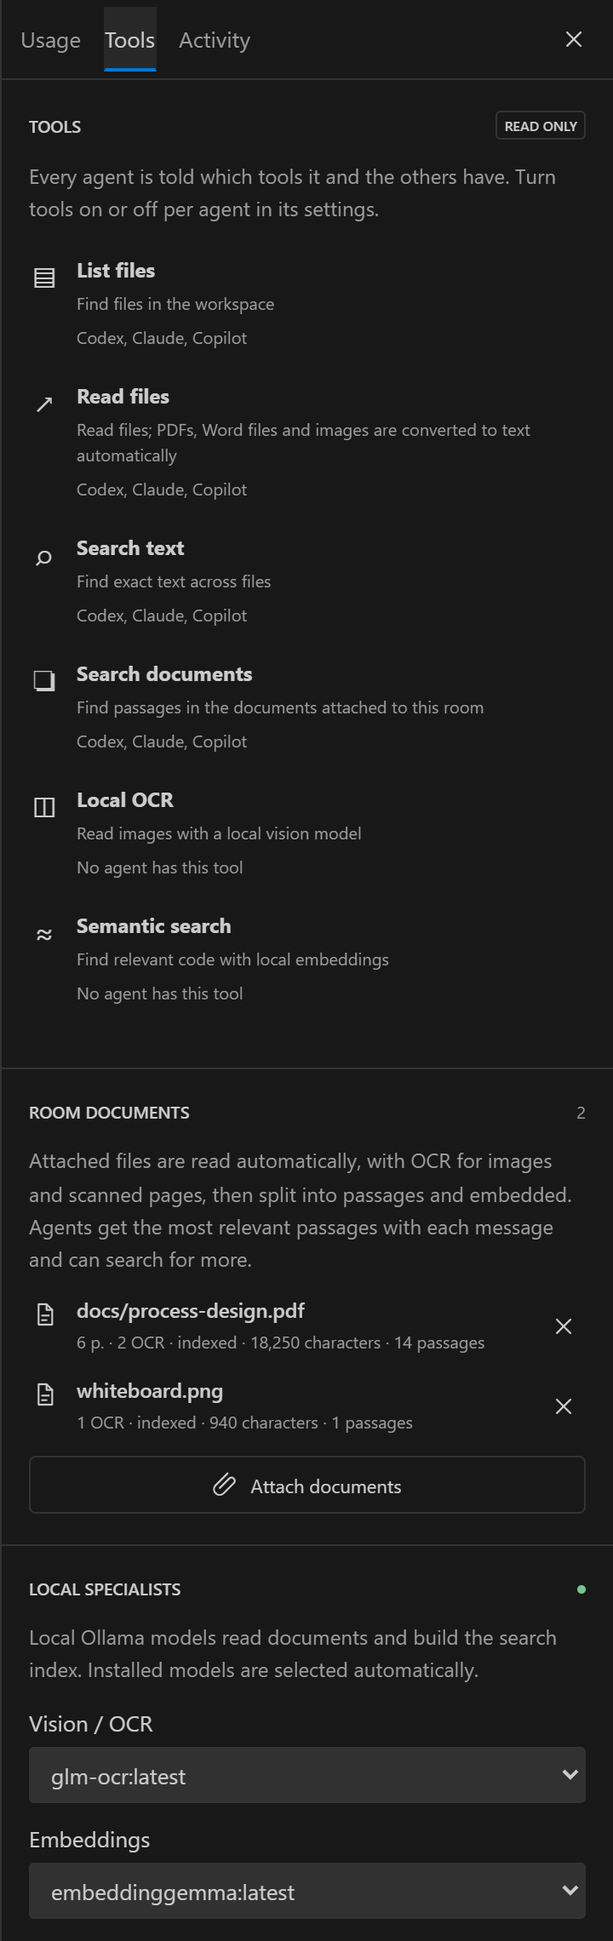
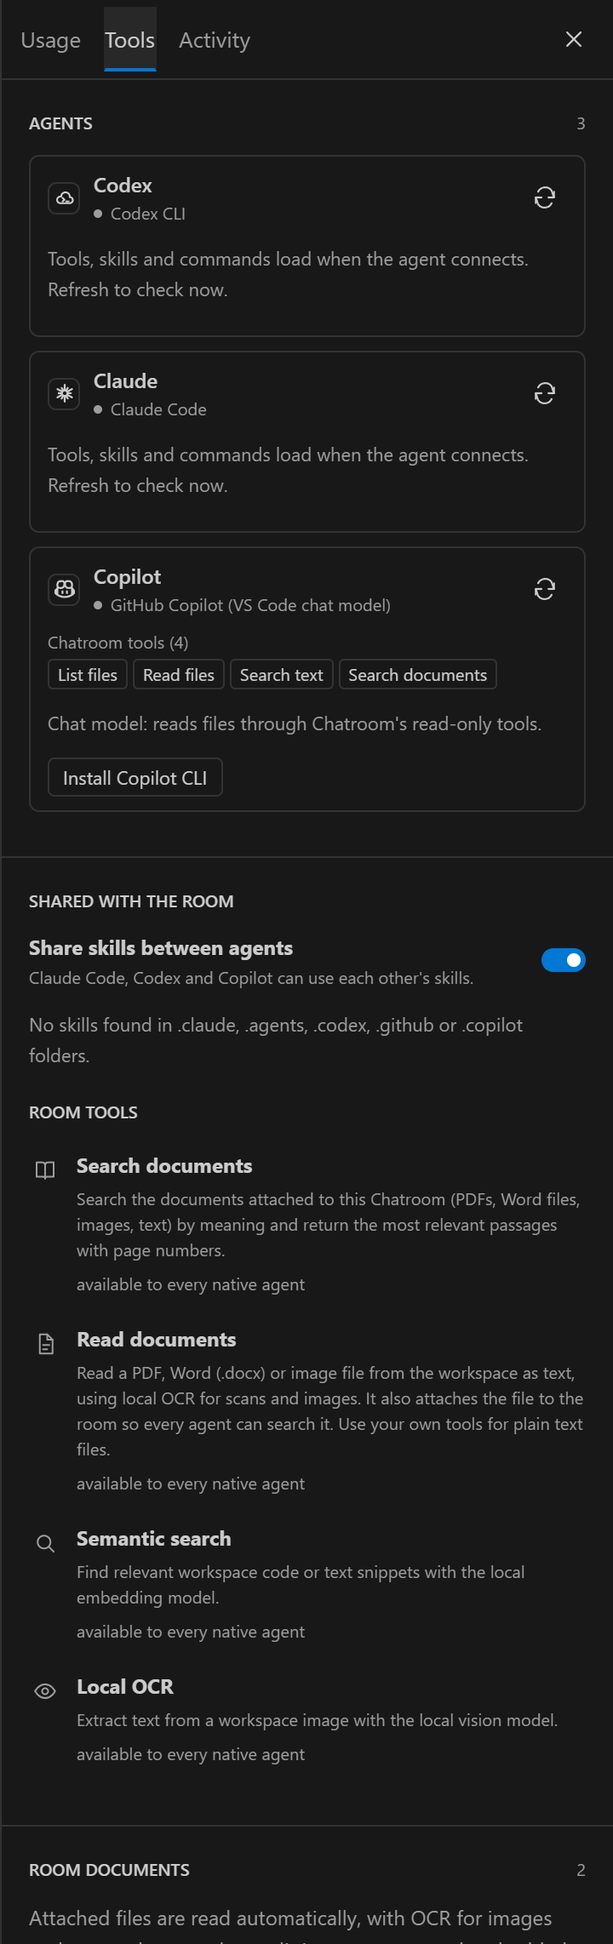
Update README, changelog and screenshots for 0.4.0

diff --git a/README.md b/README.md
@@ -1,18 +1,21 @@
 # Chatroom
 
-A VS Code extension where Codex, Claude Code, GitHub Copilot and local Ollama models work on one conversation with you. A lead agent splits your request into steps. The other agents work on those steps in parallel or build on each other's results, and the lead writes one final answer. Attach PDFs, Word files or images, and every agent can read and search them using local OCR and embeddings.
+A VS Code extension where the real Claude Code, Codex and GitHub Copilot CLIs work in one chat room with you, plus local Ollama models. Each agent is the CLI itself, with its own tools, skills, slash commands, MCP servers, sessions, effort levels and permission modes. The agents see each other's messages, hand work to each other with `@mentions`, and can work as a team under a lead. Attach PDFs, Word files or images, and every agent can read and search them using local OCR and embeddings.
 
 ![A lead agent's plan: two steps run in parallel, and a third builds on both](docs/images/lead-team.png)
 
 ## Features
 
-- **Lead + team.** The lead plans a small graph of steps. Independent steps run at the same time; a step that depends on others starts when they finish and receives their output. The lead then combines everything into one answer and resolves disagreements.
-- **Other ways to talk.** **Relay** (agents reply in turn and build on each other), **Parallel** (independent answers), and **1:1 chat** with a single agent.
-- **Agents know the room.** Each agent is told who else is present, which client and model they use, their roles, their tools, and which documents are attached.
-- **Documents.** PDFs (text layer, plus OCR for scanned pages), images, Word and text files are read automatically, split into passages, and embedded locally. The relevant passages go to every agent with each message.
-- **Your accounts, your machine.** Chatroom uses the clients you are already signed in to. It has no API-key form, no backend and no telemetry. OCR and embeddings run on your machine through Ollama.
-- **In control.** Live plan status, pause, resume, stop (per agent or for everyone), usage per agent, and an optional token limit per message.
-- **Native look.** It opens in the right Secondary Side Bar and uses your VS Code theme.
+- **The CLIs themselves.** Claude Code runs as `claude` in stream-json mode, Codex as one `codex app-server` per window, and Copilot as `copilot --acp` (when the Copilot CLI is installed). Each keeps its own tools, skills, `CLAUDE.md`/`AGENTS.md`, hooks, MCP servers and native session, and resumes that session after a reload.
+- **One room, shared context.** Every message reaches every agent once. An agent's own replies are already in its session, so each turn sends only what is new. A new or lost session gets a bounded copy of the room history.
+- **Teamwork.** A line that starts with `@Name` hands the next turn to that agent. In **Team** mode a lead answers or brings in teammates (with mention lines or a step plan), independent steps run in parallel, and the lead writes the final answer. **Relay** and **Parallel** modes and `@Agent` messages are there too.
+- **Permissions and approvals.** Per agent: **Plan**, **Ask** (the default), **Auto-edit** or **Full access**, mapped to each CLI's own modes. In Ask, edits, commands and network access show up as approval cards in the room. Unanswered requests are denied after 5 minutes.
+- **Composer like Claude Code.** `@` to mention, `/` for room commands and each agent's own slash commands, chips for team mode, loops, permissions and effort, ✦ to think harder and ⚡ Ultra for one message, and a context ring per agent.
+- **Loops.** Repeat for N rounds, until everyone agrees, until the lead says done, or every few minutes. Iteration, time and token caps always apply.
+- **Open file and selection.** The file you have open and your selection go with your message in each CLI's native format. Turn it off per room with the eye button.
+- **Shared skills and room tools.** Skills from Claude Code, Codex and Copilot are shared with the other CLIs. Every native agent gets four room tools (document search, document reading with OCR, semantic search and OCR) through MCP or Codex dynamic tools.
+- **Documents.** PDFs (text layer, plus OCR for scanned pages), images, Word and text files are read automatically, split into passages and embedded locally. The relevant passages go to every agent with each message.
+- **Your accounts, your machine.** Chatroom uses the CLIs you are already signed in to. It has no API-key form, no backend and no telemetry.
 
 <table>
   <tr>
@@ -31,9 +34,9 @@ A VS Code extension where Codex, Claude Code, GitHub Copilot and local Ollama mo
 
 - VS Code 1.106 or newer.
 - At least one signed-in client:
-  - **Codex**: the Codex extension or CLI.
   - **Claude Code**: the Claude Code extension or CLI.
-  - **GitHub Copilot**: signed in to Copilot in VS Code.
+  - **Codex**: the Codex extension or CLI.
+  - **GitHub Copilot CLI** (recommended for Copilot): `npm i -g @github/copilot`, then `copilot login`. Without it, Copilot runs through VS Code's chat models as a chat-only agent.
   - **Ollama**: local models.
 - For documents (optional): [Ollama](https://ollama.com) with a vision/OCR model and an embedding model, for example `ollama pull glm-ocr` and `ollama pull embeddinggemma`.
 - To build: Node.js 20 or newer.
@@ -45,7 +48,7 @@ git clone https://github.com/GhoshSrinjoy/ChatRoom.git
 cd ChatRoom
 npm ci
 npm run package
-code --install-extension artifacts/chatroom-0.3.2.vsix
+code --install-extension artifacts/chatroom-0.4.0.vsix
 ```
 
 Then run **Developer: Reload Window** in VS Code. You can also install the file with **Extensions: Install from VSIX…** from the Command Palette.
@@ -53,97 +56,105 @@ Then run **Developer: Reload Window** in VS Code. You can also install the file 
 ## Getting started
 
 1. Open a local folder you trust and run **Chatroom: Open Room**. It opens in the right Secondary Side Bar.
-2. Click **Refresh connections**. Copilot may ask for consent to share its models with Chatroom.
-3. Each agent has a model dropdown populated from its client. Click an agent's name to change its role, tools, and Codex reasoning effort. Use **Add agent** for more agents, including several models from the same client.
-4. Pick how the agents collaborate in the composer (**Lead + team** is the default) and who leads. Then send your request to everyone, or pick **Only *name* · 1:1 chat** to talk to a single agent.
-5. Use the paperclip to attach PDFs, Word files, images or text. They are read and indexed automatically, and every agent can use them.
-6. **Pause** finishes active turns and keeps queued work; **Stop** cancels all active requests. Turn an agent's toggle off to stop only that agent.
+2. Chatroom finds the installed CLIs. The team strip above the conversation shows one pill per agent; click a pill for its model, effort, permission, session and tools. **+** adds agents, including several models from the same CLI.
+3. Type a message. It goes to the room in its current mode (the **Team** chip). Start it with `@Claude` (or `@Codex @Copilot`) to send it to just those agents.
+4. Type `/` for commands: Chatroom's own (`/loop`, `/mode`, `/clear`, `/compact`, `/status`…) and each agent's native commands and skills (`@Claude /review`, `@Codex /goal …`).
+5. When an agent in **Ask** wants to edit a file or run a command, an approval card appears in the room. **Allow**, **Allow for session** or **Deny**.
+6. **Stop** (the send button while agents work) interrupts every agent; turn a pill off to stop only that agent.
 
-The grid button beside the room title opens **Usage**, **Tools** and **Activity**, where you set rounds, the parallel limit and the optional token limit. The diagonal arrow or **Chatroom: Open in Editor** opens the room in an editor tab beside your current one.
+The grid button beside the room title opens **Usage**, **Tools** and **Activity**. **Chatroom: Open in Editor** opens the room in an editor tab beside your current one.
 
 ## How agents collaborate
 
-Choose the mode in the composer. New rooms use **Lead + team**.
+- **Team** (default). The lead reads your message. It answers simple ones itself. Otherwise it ends its reply with one `@Name task` line per teammate (they work in parallel), or with a `<chatroom-plan>` step graph when some steps depend on others. A step receives only the outputs it builds on. When the steps finish, the lead writes the final answer. With `/loop N`, the lead may delegate again up to N waves.
+- **Relay.** Agents reply in turn, each building on the replies before it.
+- **Parallel.** Agents answer the same snapshot at the same time; the next round sees every reply.
+- **@mentions.** A message that starts with `@Agent` goes only to the mentioned agents, in order, whatever the mode. When an agent starts a line with `@Name`, that agent gets the next turn with the request. Hand-offs per message are capped (`chatroom.maxHandoffs`, default 6). In Team mode only the lead hands out work.
+- **Loops** (`/loop` or the loop chip): `/loop 3` (three rounds), `/loop consensus` (until every agent ends with `[AGREE]`), `/loop done` (until the lead ends with `[DONE]`), `/loop every 10m <prompt>` (repeat on a timer while the room is idle) and `/loop off`. Every loop stops at its iteration cap and, if set, its time and new-token caps. `/loop every …` drops the default time cap when that cap would end the loop before its iteration cap. Stop ends any loop. Interval loops do not survive a reload.
 
-- **Lead + team.** The lead (chosen beside the mode; marked **Lead** on its card) reads your message. A simple message gets a direct answer. Otherwise the lead writes a short plan: a graph of steps, each assigned to one agent with a specific task. Steps with no dependencies run in parallel, up to the parallel limit. A step that builds on others starts when they finish and receives only their outputs, so it continues their work instead of repeating it. Each agent runs one step at a time. When every step is done, the lead writes one final answer that combines the results and resolves disagreements. The plan card shows each stage and step status live. If a step fails, the steps that depend on it are skipped and the lead still answers with what finished. **Rounds** sets how many plan-and-answer waves the lead may run: with 2 or more, the lead can schedule another wave if essential work is missing.
-- **Relay.** Agents reply in turn. Each sees the earlier replies and is told to name who it is responding to, add only what is new, and disagree with evidence. An agent with nothing to add ends with `[CONSENSUS]`, shown as *agrees*. When everyone agrees, the run ends early.
-- **Parallel.** Agents answer the same snapshot independently, each from its own role's angle. The next round sees all of the replies.
-- **1:1 chat.** Picking a single agent sends exactly one turn to it with a one-on-one prompt, whatever the mode and rounds. It still sees the room's transcript.
+Each agent gets a short room framing appended to its CLI's own system prompt: who is in the room, how messages arrive, how to hand off, and who leads. Agents have no default persona; an optional focus can be set per agent.
 
-Every agent's instructions list everyone in the room with their client, model, role and tools, plus the documents attached to the room. Agents therefore know who can do what, and the lead assigns work accordingly.
+## Permissions, approvals and safety
 
-![Each step shows its assignment and what it builds on; the lead's final answer combines them](docs/images/final-answer.png)
-
-## Models, task defaults, and execution
-
-The **Settings** button opens **Models and defaults**. Choose each provider's model for **Planning / orchestration**, **Drafting / general tasks**, and **Review**. These settings are stored under `chatroom.modelDefaults` in VS Code. Empty defaults resolve from the discovered catalog: planning uses the client's default (Claude Opus), drafting prefers a small model when available (Claude Haiku), and review uses the client's default (Claude Sonnet). Set explicit choices for your preferred models. Availability still depends on the client account.
-
-Choose a task in the composer to apply its models to the current room. Saving defaults affects new rooms; it does not silently overwrite existing agent choices. Agent dropdowns can override the preset individually. The same settings page controls the default task, execution mode, and parallel limit (1–4).
-
-The parallel limit caps how many agents (or Lead + team steps) run at once. The bottom status strip shows the mode, running agents, queued turns or steps, and failures. Agent rows show queued, thinking, tool activity, complete, disabled, or failed status. Concurrent requests may overshoot a token limit before their usage is reported.
-
-## What is included
-
-- Lead + team step graphs (up to eight steps per plan), relay and parallel rounds, and 1:1 chat; up to eight agents and ten rounds per run.
-- Automatic document reading: PDF text layers, scanned PDF pages and images through local OCR, Word (.docx) and text files. Documents are chunked by page, embedded locally, searched with `search_documents`, and the best passages are shared with every agent for each message.
-- Streaming responses where the client supports it, individual agent toggles, pause/resume, request timeouts, and consensus detection.
-- Cancellation stops the whole CLI process tree: `taskkill /T /F` on Windows, the process group on macOS/Linux. A CLI that ignores the stop request is force-killed after 2 seconds. After 2 more seconds, or 2 seconds after a CLI exits while a leftover helper still holds its output, Chatroom stops waiting, so one stuck process cannot freeze the room. When a CLI prints plain text instead of an answer (for example, a login prompt), that text is shown in the error.
-- Input/output/cache-read usage per agent, provider-reported cost when supplied, local specialist usage, and an optional token limit per message.
-- A stable role/instruction prefix and append-only history while it fits the context budget. Older messages are trimmed deterministically; the initial objective is retained in bounded form.
-- Read-only workspace file listing, reading, and literal search. `read_file` converts workspace PDFs, Word files and images to text automatically and attaches them to the room. Explicit editor-selection attachment.
-- Local Ollama OCR for images and scanned pages, and semantic search using local embeddings. Capability discovery excludes cloud models from local tools.
-- Content-hash caching on disk for extracted documents, OCR results and embeddings, in VS Code's per-workspace extension storage. The same file or passage is never processed twice. The embedding cache is bounded (6,000 vectors, least recently used evicted).
-- Local workspace conversation persistence (up to 20 rooms), Markdown export, dark/light/high-contrast styling, responsive layout, keyboard controls, and escaped model output.
-
-## Provider connections
-
-| Provider | Connection | Model selection | Usage |
+| Level | Claude Code | Codex | Copilot CLI |
 | --- | --- | --- | --- |
-| Codex | Installed extension runtime preferred; `codex exec --json`, existing authentication | Live `model/list` catalog, supported reasoning efforts; cached catalog fallback labeled | CLI input/output/cache usage when available |
-| Claude Code | Installed extension runtime preferred; `claude --print --output-format stream-json`, existing authentication | Client control-protocol catalog; aliases fallback labeled | CLI input/output/cache-read/cache-write usage and cost estimate |
-| GitHub Copilot | VS Code `vscode.lm` API; GitHub Copilot must be installed and signed in | Models returned by your account's picker | Locally counted input/output tokens, marked estimated |
-| Ollama | Loopback HTTP API, default `http://127.0.0.1:11434` | Installed models discovered through `/api/tags` and `/api/show` | Evaluation counts from responses |
+| Plan | `plan` permission mode | read-only sandbox, plan collaboration mode | `#plan` mode; edits and commands are rejected |
+| Ask (default) | `default` mode, approvals in the room | `on-request` approvals, read-only sandbox | every permission request becomes a card |
+| Auto-edit | `acceptEdits` | `on-request`, workspace-write sandbox | reads and edits inside the workspace and extra folders allowed; network and the rest ask |
+| Full access | `bypassPermissions` | no approvals, full access | allow all |
 
-Chatroom does not attach to existing chat tabs in other extensions. It starts separate CLI requests or VS Code language-model requests and coordinates their context. Copilot's full coding-agent interface is not embedded; Chatroom supplies its own tool loop around the model API. Authentication stays with each client; Chatroom has no API-key form and does not read credential files.
+- **Full access** is never a default. It needs `chatroom.allowFullAccess` and a confirmation in the room. Turning the setting off moves every Full-access agent back to Ask.
+- Approval requests that nobody answers are denied after `chatroom.approvalTimeoutSeconds` (default 300). Stop and per-agent stop cancel pending requests.
+- Agents that edit without asking (Auto-edit or Full access) edit one at a time; the others run in parallel freely.
+- A Codex sandbox override can only tighten what the permission level allows: it can make Auto-edit read-only, but it can never make Ask or Plan writable.
+- "Allow for session" on a card allows that kind of request for the rest of the CLI session. It never raises the agent's permission level, and it never writes settings files in your repository.
+- `chatroom.allowFullAccess`, `chatroom.defaultPermission`, `chatroom.sharedMcpServers` and `chatroom.copilotUseEnvToken` are read from your user settings only, so a repository's `.vscode/settings.json` cannot grant access or start MCP servers.
+- A turn stops after `chatroom.turnTimeoutSeconds` (default 300) without any activity; time spent waiting for you does not count. Stop sends each CLI's own interrupt and kills the process only if it has not stopped after 5 seconds.
+- Codex note: when a Codex thread can write in a git repository, Codex may add a trust entry for the folder to `~/.codex/config.toml`, as the official Codex extension does.
+- Chatroom removes nested-session variables (`CLAUDECODE`, `CLAUDE_CODE_*` session variables and similar) from the environment of the CLIs it starts, so a Chatroom launched from inside another agent does not confuse them. `GH_TOKEN`/`GITHUB_TOKEN` are not passed to the Copilot CLI unless `chatroom.copilotUseEnvToken` is on.
+- Room messages, documents and tool output are data, not instructions that change an agent's permissions. Inspect what you attach.
 
-The Codex and Claude executables can be configured under **Settings → Chatroom**. Defaults prefer the native runtimes bundled with the installed client extensions before PATH, avoiding obsolete global CLIs. Explicit paths take precedence. On Windows, native `.exe` files and npm-installed CLI shims are supported. npm shims resolve to JavaScript entry points without interpolating prompts into a shell command. Each Codex request explicitly sets its reasoning effort so an incompatible global setting cannot leak into the run. A model catalog is not a live quota check; authentication and entitlement errors are reported on use.
+## Commands
 
-Copilot uses native VS Code tool-call and tool-result parts, retaining call IDs across requests. CLI/Ollama tool actions use a bounded XML envelope parser; a trailing tool action after explanatory prose is executed too. Each turn allows up to eight Chatroom tool calls. Failed agents stop scheduling further turns in that run while the other agents continue.
+| Command | What it does |
+| --- | --- |
+| `/help` | Lists the room commands |
+| `/clear` | Starts fresh native sessions; the agents forget earlier messages (`@Agent /clear` for one agent) |
+| `/compact [instructions]` | Summarizes each agent's native session to free context |
+| `/new`, `/export`, `/stop` | New room, Markdown export, stop all agents |
+| `/loop …` | See loops above |
+| `/mode team \| relay \| parallel`, `/lead <agent>` | How agents collaborate and who leads |
+| `@Agent /model <model>`, `/effort <level>`, `/permissions plan \| ask \| auto \| full` | Model, reasoning effort and permission level |
+| `/status` | Sessions, models, effort, permissions and context use per agent |
+
+Native commands go to the agent that has them: `@Claude /review`, `@Codex /goal ship the parser`, a skill name, and so on. Commands that would break a headless CLI (login, themes, terminal setup…) are not offered. Type `//` to send a message that starts with a slash.
+
+## Models, effort and sessions
+
+The **Settings** button opens **Models and defaults** for the Planning, Drafting and Review presets (`chatroom.modelDefaults`). Each agent's settings choose its model, reasoning effort, Claude thinking, Codex reasoning summary and sandbox, web search, MCP, skills, project settings, extra folders and Ultra. ✦ (think harder) raises effort for one message: `ultrathink` for Claude, one effort level higher for Codex and Copilot. ⚡ Ultra lets each agent orchestrate its own sub-agents for one message (Claude `ultracode`, Codex Ultra effort, Copilot fleet) and can use many times more tokens.
+
+Native sessions persist with the room. **Copy resume command** in an agent's settings gives `claude --resume …`, `codex resume …` or `copilot --resume …` to continue the same session in a terminal. CLI processes stop after `chatroom.idleSessionMinutes` (default 20) of idle time, when you switch rooms, and when VS Code closes; their sessions resume on the next turn.
 
 ## Documents, OCR and embeddings
 
-Click the paperclip in the composer, or **Attach documents** in the **Tools** tab, and choose files. Each one appears as a chip that shows its progress: reading, OCR of each page, indexing, then ready (for example *6 p. · 2 OCR · indexed*).
+Click **+** in the composer, or **Attach documents** in the **Tools** tab, and choose files. Each one appears as a chip that shows its progress: reading, OCR of each page, indexing, then ready.
 
 1. **Extract.** PDFs are read from their text layer. A page with no text layer is treated as a scan: its largest embedded image is converted to PNG and read by the local OCR model. Images go straight to OCR. Word files are unzipped and converted to paragraphs.
 2. **Chunk.** Text is split into overlapping passages of about 1,600 characters. PDF passages never cross pages, so search results cite the page.
-3. **Embed.** Passages are embedded with the local embedding model. Retrieval-tuned models such as EmbeddingGemma and nomic-embed get their query/document prompts. Without an embedding model, search falls back to keyword scoring.
-4. **Use.** For every new message, Chatroom retrieves the most relevant passages once and gives them to all agents; small document sets are shared in full. Agents with `search_documents` can look up more. Agents can also read a workspace PDF or image with `read_file`, which runs the same pipeline and attaches it to the room.
+3. **Embed.** Passages are embedded with the local embedding model. Without an embedding model, search falls back to keyword scoring.
+4. **Use.** For every new message, Chatroom retrieves the most relevant passages once and gives them to every agent. Native agents can look up more with the `search_documents` room tool, and attach a workspace PDF, Word file or image with `read_document`.
 
-Chatroom selects installed local models automatically, preferring a vision model whose name contains `ocr` and an embedding model. Change them in **Tools**; after a manual choice, Chatroom stops auto-selecting. It does not download models: `ollama pull glm-ocr` and `ollama pull embeddinggemma` are a good pair.
+Chatroom selects installed local models automatically, preferring a vision model whose name contains `ocr` and an embedding model. Change them in **Tools**. It does not download models. Documents up to 40 MB are accepted, and up to 40 scanned pages are read per PDF.
 
-Attached documents are processed because you chose them, so a token limit does not block them, but their local usage is still counted under **Local specialists**. OCR from agent tool calls respects the limit. Documents up to 40 MB are accepted, and up to 40 scanned pages are read per PDF; skipped scans are noted in the text. A PDF page drawn as vector shapes, with neither text nor an image, cannot be read.
+## Settings
 
-OCR streams are monitored for repeated output. GLM-OCR usually prints the text, repeats it inside a markdown fence, then loops on empty fences. Chatroom stops the loop, removes the duplicate, and treats the result as complete. Any other loop, or reaching the output limit, is labelled **partial** and not cached. Image-token usage is unknown when a stream is stopped before its final usage event.
+| Setting | Default | Purpose |
+| --- | --- | --- |
+| `chatroom.claudePath`, `chatroom.codexPath`, `chatroom.copilotPath` | `claude`, `codex`, `copilot` | CLI executables. Claude and Codex prefer the runtimes bundled with their VS Code extensions |
+| `chatroom.defaultPermission` | `ask` | Permission level for new agents (user settings only) |
+| `chatroom.allowFullAccess` | `false` | Allow Full access (no approvals) (user settings only) |
+| `chatroom.approvalTimeoutSeconds` | `300` | Unanswered approvals are denied after this time |
+| `chatroom.turnTimeoutSeconds` | `300` | Stop a turn after this long without activity |
+| `chatroom.idleSessionMinutes` | `20` | Stop an idle agent's CLI process; its session resumes later |
+| `chatroom.attachOpenFile` | `true` | Share the open file and selection with agents |
+| `chatroom.shareSkills` | `true` | Share skills between the CLIs in new rooms |
+| `chatroom.sharedMcpServers` | `{}` | MCP servers for every native agent, in `.mcp.json` format (user settings only; names starting with `chatroom` are reserved) |
+| `chatroom.maxHandoffs` | `6` | Agent-to-agent hand-offs per message |
+| `chatroom.copilotUseEnvToken` | `false` | Pass `GH_TOKEN`/`GITHUB_TOKEN` to the Copilot CLI (user settings only) |
+| `chatroom.contextTokens` | `12000` | Room history budget for new sessions and chat-model agents |
+| `chatroom.executionMode`, `chatroom.maxParallelAgents`, `chatroom.defaultPreset`, `chatroom.modelDefaults` | | Room defaults |
+| `chatroom.ollamaUrl`, `chatroom.ollamaKeepAlive` | | Local Ollama endpoint |
 
-Workspace tools block traversal, escaping symlinks/junctions, common credential directories, and oversized files. These filters are a boundary for Chatroom tools, not a complete secret detector. Inspect what you attach or ask the agents to read. The first workspace folder is used in multi-root workspaces.
+## Usage and caching
 
-This release supports discussion and read-only research. Claude's native tools and inherited MCP servers are disabled. Codex runs with its read-only sandbox and no interactive approval escalation; its own native read tools may still run independently of Chatroom's tool switches. Codex's sandbox is not restricted to the path filters used by Chatroom's tools. Existing Codex configuration can also influence its behavior; no sandbox-bypass flags are used.
-
-## Usage and caching semantics
-
-- **Token limit per message** (Usage tab) is an optional safety stop and is off by default. Chatroom sets it; it is not a provider limit. It counts new tokens (input minus cached re-reads, plus output) from the moment you send a message or press **Resume**, so earlier conversation never uses it up. When it is reached, an agent in the middle of a tool loop gives its answer from the results it already has instead of failing, and the room pauses before the next turn. **Resume** allows another run of the same size. Runs are also bounded by rounds, eight tool calls per turn, eight plan steps, and the turn timeout. Rooms saved with the old 50,000-token room budget are switched to no limit.
-- When Codex emits an account rate-limit snapshot, its per-agent card also shows the reported primary/secondary allowance percentages with a timestamp. Other clients or versions may not report quota; those cards explicitly say **not reported**. Exact remaining credits are never fabricated.
-- Token totals include cached input, output, and local model work; the Usage tab splits them into new tokens and cached re-reads. CLI agents such as Codex carry large built-in prompts that are mostly cached. Totals are not a monetary spend cap. Claude cost is a client-reported estimate, not a billing statement.
-- Copilot counts, cancelled turns, and requests missing usage events are marked `~` for estimates. A failed request's input estimate may overstate billed usage; partially completed requests can also incur unreported usage.
-- The limit is checked before each model request. An in-flight request can overshoot. A provider's internal tool/reasoning calls may also consume tokens before final usage arrives.
-- Stable prefixes make requests eligible for provider-managed prompt caching, but **do not guarantee cache hits**. Actual cache counts are shown only when reported. This implementation sends bounded shared history afresh for each CLI request; it does not resume native provider sessions.
-- Local OCR/embedding result caching is separate from cloud prompt caching. No generated agent answers are replayed as cached responses.
-- Pause preserves a queue or an unfinished plan only while the extension host remains open. After restarting VS Code, saved transcripts are restored, unfinished plan steps are marked skipped, and **Continue round** starts again (in Lead + team, the lead re-plans from the conversation).
-- Conversations are stored in VS Code's local workspace state, including shared context and tool output. No Chatroom telemetry or application backend is configured. Provider requests still go to the selected client's service; Ollama cloud models are labeled as cloud in the model picker.
+- **Token limit per message** (Usage tab) is an optional safety stop, off by default. It counts new tokens (input minus cached re-reads, plus output) from the moment you send a message or press **Resume**. Loops have their own token cap.
+- Usage comes from each CLI: Claude reports tokens and cost, Codex reports token totals per turn and rate-limit windows, Copilot reports usage when its CLI provides it. Missing figures are estimated and marked `~`. Cost is a client-reported estimate, not a bill.
+- Native sessions keep their own history, so Chatroom sends each agent only the messages it has not seen. The context ring and `/status` show how full each session is; `/compact` frees space.
+- Conversations, including native session ids, are stored in VS Code's local workspace state. Provider requests go to each client's own service.
 
 ## Development environment
 
-With Node.js 20 or newer, the quickest route is:
+With Node.js 20 or newer:
 
 ```powershell
 npm ci
@@ -152,7 +163,7 @@ npm test
 npm run package
 ```
 
-Alternatively, keep everything inside the project folder with Conda. Development dependencies are then stored in the **chatroom** Conda prefix at `.conda/chatroom`, with npm packages under `.conda/chatroom/tooling/node_modules`. The workspace `node_modules` is a junction to that location. Nothing is installed into the base Conda environment.
+Alternatively, keep everything inside the project folder with Conda. Development dependencies are then stored in the **chatroom** Conda prefix at `.conda/chatroom`, with npm packages under `.conda/chatroom/tooling/node_modules`. The workspace `node_modules` is a junction to that location.
 
 ```powershell
 # Initial setup or dependency changes; uses the manifest's devDependencies.
@@ -165,14 +176,14 @@ npm run build
 npm run package
 ```
 
-In the Conda setup, use `scripts/bootstrap.ps1` to install or update packages instead of running `npm install` at the project root: npm may replace the junction with a regular directory. The generated lockfile is committed at the project root for reproducibility. The environment is a project-local Conda prefix named `chatroom`; activate it using its full path.
+In the Conda setup, use `scripts/bootstrap.ps1` to install or update packages instead of running `npm install` at the project root: npm may replace the junction with a regular directory.
 
-Press **F5** with the project open to launch the **Run Chatroom** development configuration. The installed extension needs no Conda, Python, or Node installation for its own bundled JavaScript; external provider CLIs have their own runtime requirements.
+Press **F5** with the project open to launch the **Run Chatroom** development configuration. Unit tests never start a real CLI: drivers are tested against fake processes and JSON-RPC peers (`tests/helpers.ts`).
 
 Additional validation:
 
 ```powershell
-# Uses an existing Google Chrome installation; saves UI previews and the logo.
+# Uses an existing Google Chrome installation; saves UI previews.
 node scripts/test-ui.mjs
 
 # Regenerates the README screenshots in docs/images from sample data.
@@ -180,45 +191,37 @@ node scripts/screenshots.mjs
 
 # Real VS Code iframe checks, in an isolated user-data directory.
 node scripts/test-sidebar.mjs
-node scripts/test-sidebar.mjs --restore
-node scripts/test-sidebar.mjs --legacy
 
 # Optional real local-model checks. Requires Ollama and the existing models.
 node --import tsx scripts/test-local.ts
-
-# Document pipeline with real OCR and embeddings: a PDF with a text page and a scanned page, plus Word.
 node --import tsx scripts/test-documents.ts path\to\scan.jpg
 
-# Live Lead + team run: Claude (haiku) leads, Codex (small model) and a local Ollama model work on steps.
+# Optional live runs with your own logins (they use real tokens).
 node --import tsx scripts/test-team.ts path\to\scan.jpg medgemma:4b
-
-# Optional cloud smoke test using existing client logins and small discovered models.
-node --import tsx scripts/test-clients.ts
+node --import tsx scripts/test-clients.ts [claude|codex|copilot]
 ```
-
-Run `node scripts/build-smoke.mjs`, then supply `scripts/extension-smoke.cjs` to VS Code's `--extensionTestsPath` with `--extensionDevelopmentPath` pointing at this project. Use an isolated `--user-data-dir` for tests. This verifies activation, command registration, the Secondary Side Bar, the editor panel, and a Copilot native-tool roundtrip using real VS Code API classes with a fixture model. It does not make a live Copilot service request.
 
 ## Architecture
 
-- `src/extension.ts`: VS Code host, validated webview actions, persistence, connection discovery.
-- `src/engine.ts`: Lead + team step graphs (dependency-aware worker pool), relay/parallel rounds, 1:1 turns, round snapshots, cancellation, usage accounting, native and XML tool loops.
-- `src/core.ts`: room roster and per-turn protocols in system prompts, plan parsing, and context selection (steps see only the outputs they build on).
-- `src/extract.ts`: PDF (via the bundled serverless pdf.js in `unpdf`), scanned-page image extraction and PNG encoding, Word and text extraction.
-- `src/knowledge.ts`, `src/documents.ts`: on-disk content-addressed store, chunking, embedding cache, ingestion, search and per-message document briefings.
-- `src/providers.ts`: Copilot native tool adapter and provider discovery; `src/cli-provider.ts`: Codex/Claude JSONL adapters.
-- `src/catalog.ts`: installed runtime selection and client model catalogs.
-- `src/ollama.ts`: capability discovery, NDJSON chat, OCR, and embeddings.
-- `src/tools.ts`, `src/paths.ts`: workspace research, path boundaries, local-result caches.
+- `src/extension.ts`: VS Code host, validated webview messages, room commands, migration, the driver host, capabilities, skills and editor wiring.
+- `src/engine.ts`: passes, hand-offs, Team plans, loops and caps, approvals, inactivity timeouts, one writer at a time, and the legacy tool loop.
+- `src/core.ts`: room framing, delta delivery (what each agent has not seen), asks, plan parsing, migration.
+- `src/claude-native.ts`, `src/codex-native.ts`, `src/copilot-native.ts`: the Claude stream-json, Codex app-server and Copilot ACP drivers; `src/jsonl.ts`: JSON-lines processes and JSON-RPC.
+- `src/commands.ts`: composer parsing, mentions, hand-offs, `/loop`.
+- `src/room-tools.ts`, `src/tools.ts`, `src/tool-specs.ts`: room tools over MCP (in-process and loopback HTTP) and the legacy read-only tools.
+- `src/skills.ts`: skill discovery and sharing; `src/editor-context.ts`, `src/editor-tracker.ts`: the open file and selection.
+- `src/providers.ts`, `src/catalog.ts`, `src/process.ts`: CLI discovery, model catalogs, process environment.
+- `src/extract.ts`, `src/knowledge.ts`, `src/documents.ts`, `src/ollama.ts`: documents, OCR, embeddings and Ollama.
 - `media/app.js`, `media/app.css`: dependency-free webview with a strict content security policy.
 
 ## Integration references
 
-- [Codex non-interactive JSONL](https://learn.chatgpt.com/docs/non-interactive-mode)
-- [Claude Code programmatic execution](https://code.claude.com/docs/en/headless)
+- [Claude Code headless and stream-json](https://code.claude.com/docs/en/headless)
+- [Codex app-server](https://github.com/openai/codex)
+- [GitHub Copilot CLI](https://github.com/github/copilot-cli) and the [Agent Client Protocol](https://agentclientprotocol.com)
 - [VS Code Language Model API](https://code.visualstudio.com/api/extension-guides/ai/language-model)
 - [Ollama chat API](https://docs.ollama.com/api/chat) and [embeddings API](https://docs.ollama.com/api/embed)
-- [GLM-OCR task-specific prompts](https://ollama.com/library/glm-ocr)
 
 ## License
 
-[Apache License 2.0](LICENSE)
+[Apache License 2.0](LICENSE). The Copilot and CPU icons are from Primer Octicons (MIT); see `ThirdPartyNotices.txt`.

diff --git a/CHANGELOG.md b/CHANGELOG.md
@@ -1,5 +1,30 @@
 # Changelog
 
+## 0.4.0
+
+The agents are now the real CLIs, working together in one room.
+
+- **Native CLIs.** Claude Code runs as a long-lived `claude` process in stream-json mode, Codex as one `codex app-server` per window, and Copilot as `copilot --acp` when the Copilot CLI is installed (otherwise it stays a VS Code chat model). Each keeps its own tools, skills, slash commands, MCP servers, `CLAUDE.md`/`AGENTS.md`, hooks and native session, which resumes after a reload.
+- **Delta delivery.** Each agent receives only the room messages it has not seen; its own replies are already in its session. New or lost sessions get a bounded copy of the room history once. The long protocol prompt and the default personas are gone: a short room framing is appended to each CLI's own system prompt.
+- **Permissions and approvals.** Per agent: Plan, Ask (default), Auto-edit or Full access, mapped to each CLI's own modes. Approval requests appear as cards in the room and are denied after a timeout. Full access needs `chatroom.allowFullAccess` and a confirmation. Agents that edit run one at a time.
+- **Teamwork.** A line starting with `@Name` hands the next turn to that agent, within a hop cap. Team mode accepts mention lines as well as step plans. Messages that start with `@Agent` go to just those agents.
+- **Loops.** Rounds, until consensus (`[AGREE]`), until the lead says done (`[DONE]`), or every few minutes, with iteration, time and token caps. `/loop` sets them.
+- **Composer.** `@` mentions, `/` room and native commands, chips for team mode, loops, permissions and effort, think-harder and Ultra toggles, a context ring, and the open file and selection as context.
+- **Shared skills and room tools.** Skills are shared between the CLIs; four room tools reach native agents through MCP or Codex dynamic tools. `chatroom.sharedMcpServers` gives every native agent extra MCP servers.
+- **Room commands:** `/help`, `/clear`, `/compact`, `/new`, `/export`, `/loop`, `/mode`, `/lead`, `/model`, `/effort`, `/permissions`, `/status`, `/stop`.
+- **Timeouts.** The turn timeout now measures inactivity (default 300 s) and does not count time spent waiting for approval. Stop sends each CLI's own interrupt first.
+- **New settings:** `copilotPath`, `attachOpenFile`, `defaultPermission`, `allowFullAccess`, `approvalTimeoutSeconds`, `idleSessionMinutes`, `shareSkills`, `sharedMcpServers`, `maxHandoffs`, `copilotUseEnvToken`. New command: **Chatroom: Sign in to Copilot CLI**.
+- **Review fixes.**
+  - Team mode: when the lead cannot run (for example, Codex at its usage limit), the next enabled agent leads that message. A lead whose CLI is missing hands the lead to an agent that is ready.
+  - Every unseen message reaches a native session in full. A Stop after the CLI received a message no longer sends that message again, and step outputs a dependent step received are not sent to that agent again.
+  - Codex: turning MCP off no longer breaks every turn (the built-in apps server is turned off with `features.apps`). Option changes reach a running thread. "Default" model and effort follow your Codex config. Sub-agent approvals and room-tool calls reach their parent turn. Approval cards always show the exact command.
+  - Claude: "Allow for session" no longer raises an agent to Auto-edit or writes settings files. Only the four room tools are auto-allowed. `/compact` on a session that cannot be resumed no longer starts an empty one, and its tokens are counted. The first turn reuses the process that loaded capabilities.
+  - Copilot: room-tool trust comes only from the CLI's own metadata. Auto-edit allows reads and edits only inside the workspace and extra folders, and network requests always ask. Ultra puts `/fleet` at the start of the message.
+  - Full-access, default-permission, shared-MCP and Copilot token settings are read from user settings only.
+  - `/loop every …` is no longer cut short by the default 60-minute cap. A loop with no agent turned on stops instead of failing. A new message ends a paused plan. A Codex sandbox override can only tighten what the permission level allows, so it can no longer turn Ask into Auto-edit.
+  - Large rooms broadcast less often while streaming and are saved at least every 5 seconds.
+- **Migration.** Saved rooms move to schema 5: default personas are cleared, Rounds become a rounds loop, Codex reasoning becomes the agent's effort, and pending approvals are marked expired. Agents start fresh native sessions with the room's recent history.
+
 ## 0.3.2
 
 Fixes from the agents' own reliability review of this workspace:
